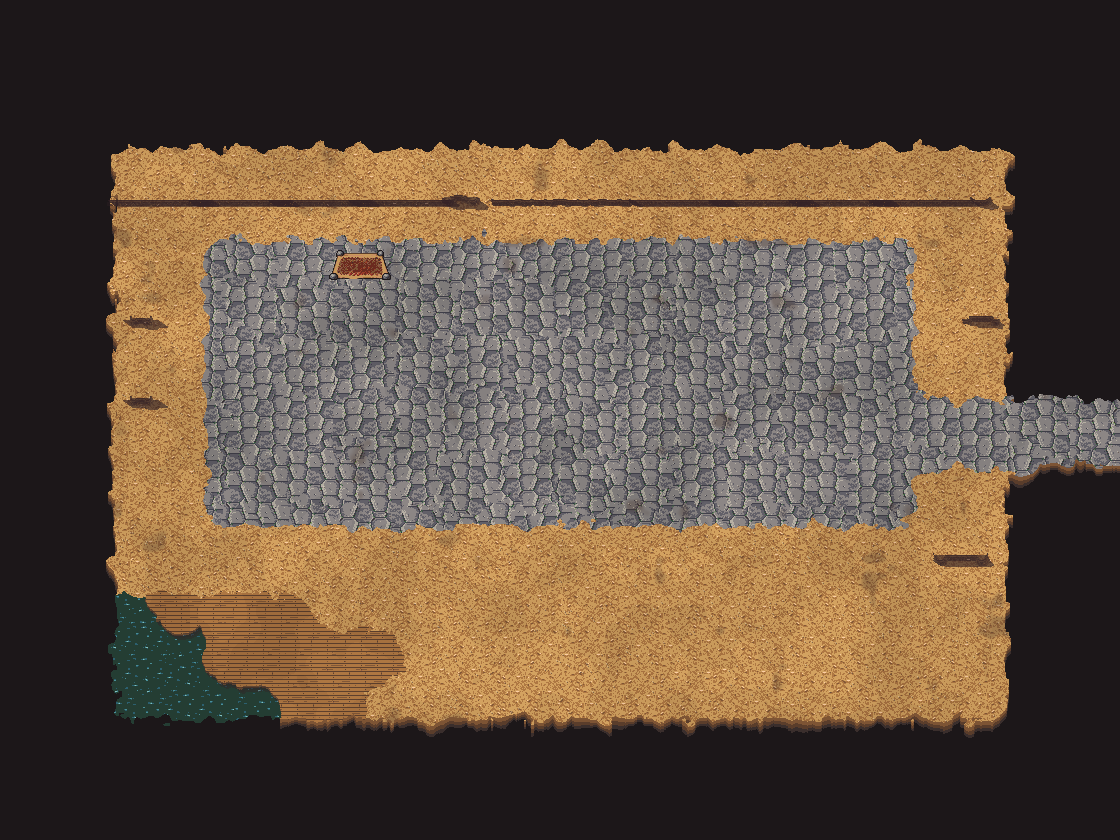
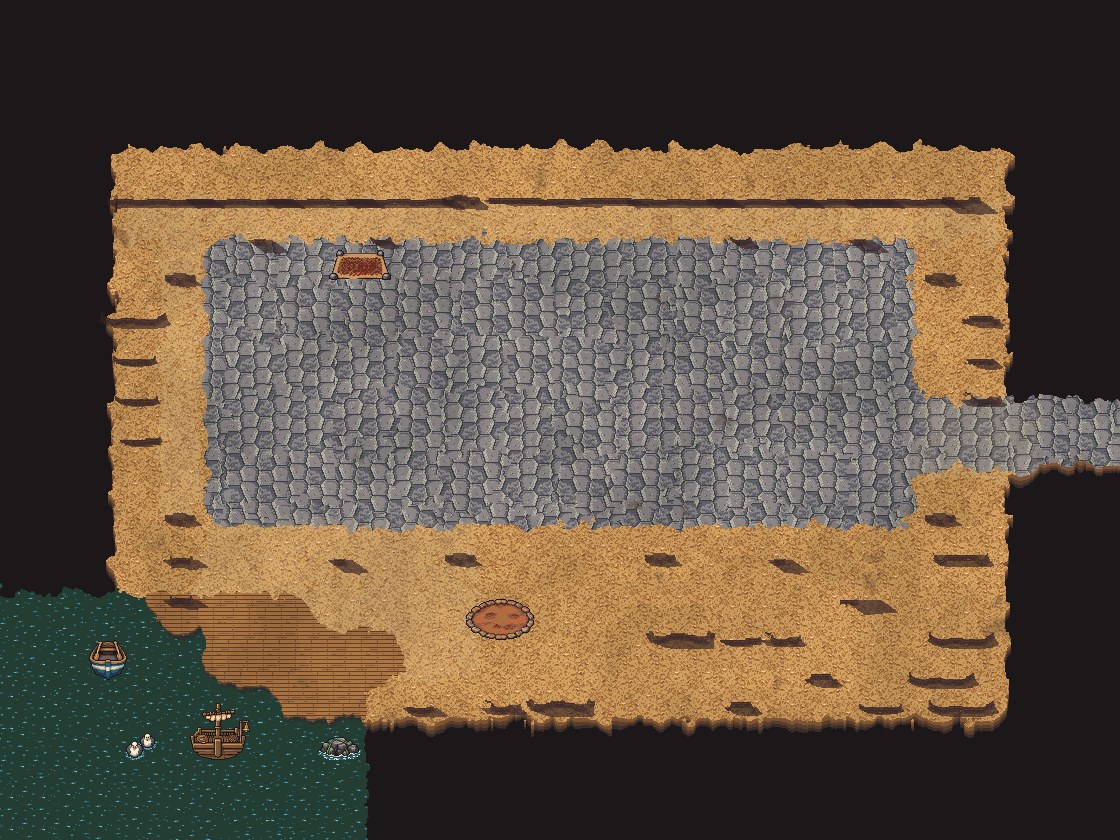
Bake the Emberwatch parade board
Claude-Session: https://claude.ai/code/session_01H8JDTPYztrZvUL5HBCK6eR

diff --git a/docs/art/prompts/maps/emberwatch_parade.md b/docs/art/prompts/maps/emberwatch_parade.md
@@ -8,7 +8,7 @@
 
 **Layout** `emberwatch_parade-layout.png` beside this file: the tile grid as flat colour blocks at 32 px a tile, with the grid drawn. Hand it to the generator as the composition reference (image-to-image or a structure control) at a strength that keeps every edge where it is; upscale it to the delivery size first so the generator does not invent a border.
 
-**Palette** hue anchors from the game's own ground (`src/render/palettes.ts`): grass `#6f9e4c`, wall `#3a352f`, sand `#c7a87d`, road `#b39064`, water deep `#1f4a5e`, wood `#6b4f33`. The painting replaces those tones outright, so lighter and more saturated is fine; stay in the same families so the effects and the parchment HUD still read over it.
+**Palette** hue anchors from the game's own ground (`src/render/palettes.ts`): grass `#6f9e4c`, wall `#3a352f`, stone `#d8cbb0`, sand `#c7a87d`, road `#b39064`, water deep `#1f4a5e`, wood `#6b4f33`. The painting replaces those tones outright, so lighter and more saturated is fine; stay in the same families so the effects and the parchment HUD still read over it.
 
 ## Where
 
@@ -19,11 +19,11 @@ Emberwatch, an old military outpost across the bay, reopened for civilians.
 24 columns by 16 rows, counted from 0 at the top-left corner. The painting is the ground and what stands on it, nothing else: the game draws its own grid, movement contours, units, props and effects over it, so every edge in the painting that matters to the rules sits exactly on a tile edge.
 
 - Road (6 tiles): a 3×2 block at columns 21–23, rows 7–8 (middle right).
-- Trees (79 tiles): 79 tiles (the centre), rows 0 and 15: columns 0–23; rows 1–3, 5, 9 and 11–14: columns 0 and 23; row 4: columns 0–1 and 22–23; row 6: columns 0–1 and 23; rows 7–8: column 0; row 10: columns 0 and 21–23.
-- Stone walls (29 tiles): a 22×1 block at columns 1–22, row 1 (top centre); 7 tiles (bottom left), row 12: column 1; row 13: columns 1–2; row 14: columns 1–4.
+- Trees (95 tiles): 45 tiles (the centre), row 0: columns 0–23; rows 1–3: columns 0 and 23; rows 4–6: columns 0 and 22–23; row 7: columns 0–1; rows 8–11: column 0; 31 tiles (bottom centre), row 9: columns 21 and 23; row 10: columns 21–23; rows 11–13: column 23; row 14: columns 8, 10–12, 16 and 23; row 15: columns 7–23; a 4×1 block at columns 14–17, row 12 (bottom centre); a 1×3 block at column 2, rows 9–11 (middle left); one tile at column 4, row 2 (top left); one tile at column 7, row 2 (top left); one tile at column 16, row 2 (top right); one tile at column 19, row 2 (top right); one tile at column 2, row 3 (top left); one tile at column 21, row 3 (top right); one tile at column 6, row 10 (middle left); one tile at column 9, row 10 (the centre); one tile at column 14, row 10 (the centre); one tile at column 17, row 10 (middle right); one tile at column 19, row 11 (bottom right); one tile at column 18, row 13 (bottom right).
+- Stone walls (52 tiles): a 22×1 block at columns 1–22, row 1 (top centre); 17 tiles (bottom left), row 12: columns 0–1; row 13: columns 0–2; row 14: columns 0–4; row 15: columns 0–6; 9 tiles (bottom right), row 12: columns 21–22; row 13: columns 20–22; row 14: columns 19–22; a 1×4 block at column 1, rows 3–6 (top left).
 - Sand (126 tiles): a 18×7 block at columns 3–20, rows 3–9 (the centre).
 - Plank floors (11 tiles): 11 tiles (bottom left), row 12: columns 2–5; row 13: columns 3–7; row 14: columns 5–6.
-- Open ground everywhere else: grass (133 tiles).
+- Open ground everywhere else: grass (94 tiles).
 - The party enters from the left, standing at (3, 12), (4, 12), (3, 13), (4, 13), (5, 12), (5, 13); enemies come from the right. Paint nothing there that would read as an object to walk round.
 
 The rows as the rules read them:
@@ -31,23 +31,23 @@ The rows as the rules read them:
 ```
 TTTTTTTTTTTTTTTTTTTTTTTT
 T######################T
-T,,,,,,,,,,,,,,,,,,,,,,T
-T,,::::::::::::::::::,,T
-Tu,::::::::::::::::::,uT
-T,,::::::::::::::::::,,T
-Tu,::::::::::::::::::,,T
+T,,,u,,u,,,,,,,,u,,u,,,T
+Tqu::::::::::::::::::u,T
+Tq,::::::::::::::::::,uT
+Tq,::::::::::::::::::,uT
+Tq,::::::::::::::::::,uT
+Tu,::::::::::::::::::===
 T,,::::::::::::::::::===
-T,,::::::::::::::::::===
-T,,::::::::::::::::::,,T
-T,,,,,,,,,,,,,,,,,,,,uuT
-T,,,,,,,,,,,,,,,,,,,,,,T
-TWwwww,,,,,,,,,,,,,,,,,T
-TWWwwwww,,,,,,,,,,,,,,,T
-TWWWWww,,,,,,,,,,,,,,,,T
-TTTTTTTTTTTTTTTTTTTTTTTT
+T,u::::::::::::::::::u,T
+T,u,,,u,,u,,,,u,,u,,,uuT
+T,u,,,,,,,,,,,,,,,,u,,,T
+WWwwww,,,,,,,,uuuu,,,qqT
+WWWwwwww,,,,,,,,,,u,qqqT
+WWWWWww,u,uuu,,,u,,qqqqT
+WWWWWWWTTTTTTTTTTTTTTTTT
 ```
 
-Legend: `T` trees; `#` stone walls; `,` grass; `:` sand; `u` trees; `=` road; `W` stone walls; `w` plank floors.
+Legend: `T` trees; `#` stone walls; `,` grass; `u` trees; `q` stone walls; `:` sand; `=` road; `W` stone walls; `w` plank floors.
 
 ## Prompt
 
